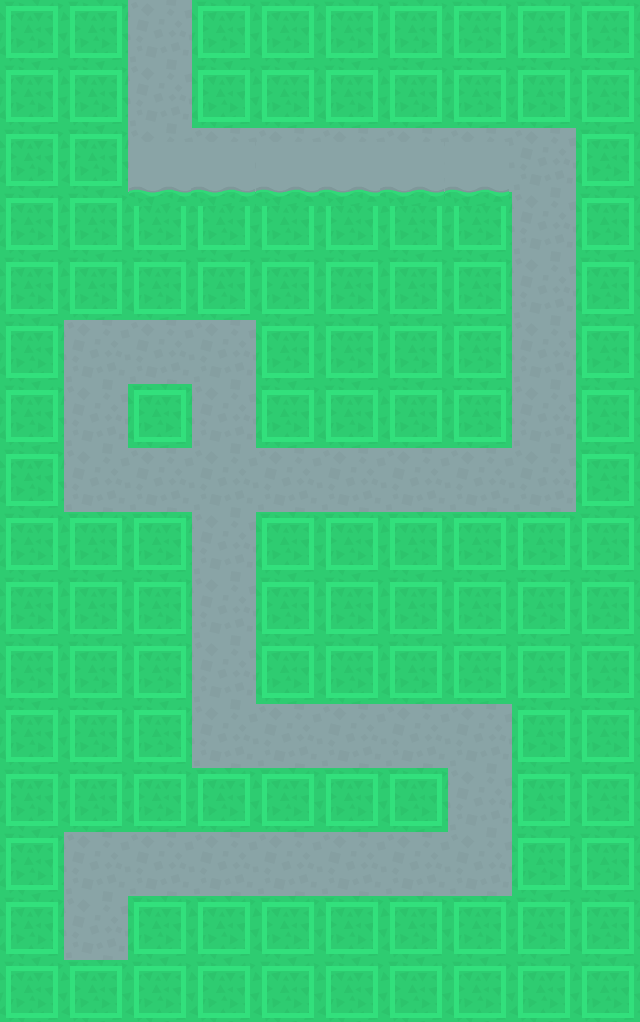
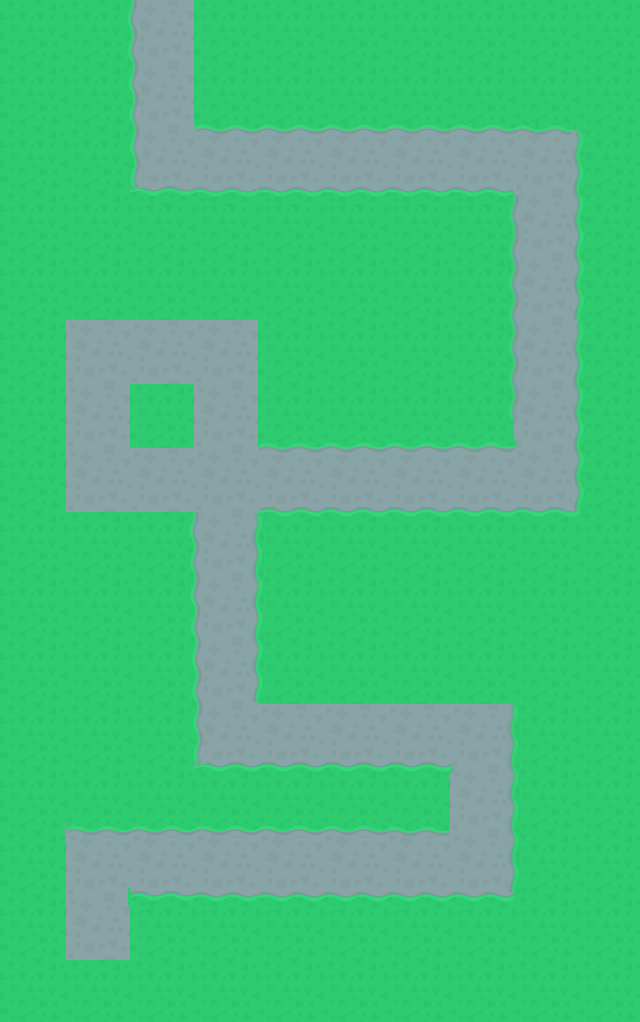
Feature/tower slot (#6)
* WIP interactivity to place towers

* WIP interaction buy and upgrade towers

diff --git a/src/Main.js b/src/Main.js
@@ -9,8 +9,6 @@ let Application = PIXI.Application,
 
 //Create a Pixi Application
 let app = new Application({
-    width: 256,
-    height: 256,
     antialiasing: true,
     transparent: false,
     resolution: 1
@@ -21,19 +19,16 @@ app.renderer.view.style.position = "absolute";
 app.renderer.view.style.display = "block";
 app.renderer.autoResize = true;
 app.renderer = PIXI.autoDetectRenderer(
-		window.innerWidth,
-		window.innerHeight,
-		{view:document.getElementById("game-canvas")}
+		{
+      view:document.getElementById("game-canvas")
+    }
 	);
 
 
 loader
-  .add(["images/background.png", "images/towerDefense_tile206.png", "images/towerDefense_tile180.png", "images/cat.png", "images/towerDefense_tile251.png", "images/towerDefense_tile024.png"])
+  .add(["images/background.png", "images/towerDefense_tile206.png", "images/towerDefense_tile180.png", "images/cat.png", "images/towerDefense_tile251.png", "images/towerDefense_tile024.png", "images/towerDefense_tile034.png"])
   .on("progress", loadProgressHandler)
   .load(setup);
-
-//Define any variables that are used in more than one function
-//let cat, state;
 
 function loadProgressHandler(loader, resource) {
   //Display the file `url` currently being loaded
@@ -46,19 +41,19 @@ function loadProgressHandler(loader, resource) {
 //Define any variables that are used in more than one function
 let wave, state;
 
-
 function setup() {
   console.log("All files loaded");
   
   //TODO add interaction plugin
-  app.stage.interactive = true;
-  app.stage.on("mousedown", function(e){
-    console.log("mousedown", e);
-  })
+  //app.stage.interactive = true;
+  //app.stage.on("mousedown", function(e){
+  //  console.log("mousedown", e);
+  //})
 
   //Create the `gameScene` group
   gameScene = new Container();
   app.stage.addChild(gameScene);
+  gameScene.visible = true
   
   waveScene = new Container();
   app.stage.addChild(waveScene);
@@ -67,9 +62,12 @@ function setup() {
   app.stage.addChild(gameOverScene);
   gameOverScene.visible = false;
 
+  //Draw map: design pourposes only
+  //drawMap()
+
   //Setup Map Background
   background = new Sprite(resources["images/background.png"].texture);
-  background.scale.x = .5 
+  background.scale.x = .5
   background.scale.y = .5
   gameScene.addChild(background);
   setupTiles()
@@ -89,47 +87,20 @@ function setup() {
  
   //Start the game loop
   app.ticker.add(delta => gameLoop(delta));
-  
 }
 
 function setupTiles()
 {
-  //let plateauTexture = PIXI.utils.TextureCache["images/towerDefense_tile055.png"];
-  //let backgrdTexture = PIXI.utils.TextureCache["images/towerDefense_tile024.png"];
-
-  //plateau = new Sprite(backgrdTexture);
-  //plateau.x = 0;
-  //plateau.y = 0;
-  //plateau.width  = TILE_SIZE;
-  //plateau.height = TILE_SIZE;
-    
-  var x,y = 0;
-  var loadtexture = "";
   for (var row = 0; row < map.length; row++) {
     for (var col = 0; col < map[row].length; col++) {
-      switch (map[row][col]){
-        default:
-          console.log("I'm here");
-          loadtexture = "images/towerDefense_tile029.png"; //does not work!
-          break;
-        case "0":
-          loadtexture = "images/towerDefense_tile024.png";
-          break;
+      if (map[row][col] === '0')
+      {
+        var tile = new Tile(col, row)
+        gameScene.addChild(tile);
       }
-        y = TILE_SIZE * row
-        x = TILE_SIZE  * col
-        let sprite =  new PIXI.Sprite(PIXI.utils.TextureCache[loadtexture]);
-        sprite.x = x
-        sprite.y = y
-        sprite.scale.x = .5 
-        sprite.scale.y = .5
-        gameScene.addChild(sprite);
-      
     }
   }
-  
 }
-
 
 function gameLoop(delta){
 
@@ -157,4 +128,40 @@ function nextWave() {
   
   //set the game state to `play`
   //state = wave;
+}
+
+
+class Tile extends PIXI.Container {
+
+  constructor(col, row) {
+    super()
+    this.x = TILE_SIZE * col
+    this.y = TILE_SIZE * row
+    
+    var rect = new PIXI.Graphics();
+    rect.beginFill(0xFFFFFF);
+    rect.drawRect(0, 0, TILE_SIZE, TILE_SIZE);
+    rect.endFill();
+    rect.alpha = 0;
+    rect.interactive = true;
+    rect.hitArea = new PIXI.Rectangle(0, 0, TILE_SIZE, TILE_SIZE);
+    rect.on('mousedown', onMousedown)
+    rect.on('mouseover', onMouseover)
+    rect.on('mouseout', onMouseout)
+    this.addChild(rect);
+  }
+}
+
+function onMousedown (event) {
+  //TODO Clavar tower seleccionada en el formulari de arriba
+  console.log('mousedown tile', this)
+}
+
+function onMouseover(mouseData) {
+  this.alpha = 0.3;
+}
+
+// make circle half-transparent when mouse leaves
+function onMouseout(mouseData) {
+  this.alpha = 0;
 }

diff --git a/src/tower/Tower.js b/src/tower/Tower.js
@@ -23,9 +23,10 @@ class BasicTower extends PIXI.Container {
     this.gun.scale.x = .65
     this.gun.scale.y = .65
 
-    this.rectangle.beginFill(0x33cc33);
+    this.rectangle.lineStyle(1, 0xFFFFFF, 3);
+    //this.rectangle.beginFill(0x33cc33);
     this.rectangle.drawRect(x, y, TILE_SIZE, TILE_SIZE);
-    this.rectangle.endFill();
+    //this.rectangle.endFill();
 
     this.addChild(this.rectangle)
     this.addChild(this.gun)
@@ -48,7 +49,7 @@ class BasicTower extends PIXI.Container {
     var dist = this.distance(this.gun.position, enemy.position);
     //console.log("Enemy at range ", dist);
     if (dist < RANGE) {
-      //console.log("Enemy in range ", dist);
+      //TODO the bulles should come out the middle
       this.shoot(this.gun.rotation, this.gun.position)
     }
 
@@ -135,10 +136,5 @@ class AnimatedTower extends BasicTower {
 
   }
 
-  shoot(rotation, startPosition) {
-    if (this.ammo > 0) {
-      console.log("Animaton");
-      super.shoot(rotation, startPosition)
-    }
-  }
+
 }

diff --git a/src/Map.js b/src/Map.js
@@ -22,3 +22,22 @@ const map =
 	['0', '0', '0', '0', '0', '0', '0', '0', '0', '0'],
 
 ];
+
+//This function draws the entire map
+//Used during design time to scaffold the scenarios
+function drawMap()
+{
+  var sprite;
+  for (var row = 0; row < map.length; row++) {
+    for (var col = 0; col < map[row].length; col++) {
+      if (map[row][col] === '0'){
+         sprite =  new PIXI.Sprite(PIXI.utils.TextureCache["images/towerDefense_tile024.png"]);
+      }else{
+         sprite =  new PIXI.Sprite(PIXI.utils.TextureCache["images/towerDefense_tile034.png"]);
+      }
+      sprite.x = TILE_SIZE * col
+      sprite.y = TILE_SIZE * row
+      gameScene.addChild(sprite);
+    }
+  }
+}

diff --git a/index.html b/index.html
@@ -4,7 +4,10 @@
 <style>
   * {padding: 0; margin: 0}
   body { background-color: #89a4a6 }
-	canvas { background-color: #89a4a6; }
+	canvas { 
+    background-color: #89a4a6;
+   
+     }
 	form {background-color: white;}
 </style>
 <body>
@@ -20,7 +23,7 @@
 </form>
 </div>
   <div align="center">
-		<canvas id="game-canvas" width="800" height="600"></canvas>
+		<canvas id="game-canvas"></canvas>
 	</div>
 <script src="node_modules/pixi.js/dist/pixi.js"></script>
 <script src="src/util/keyboard.js"></script>

diff --git a/src/wave/Wave.js b/src/wave/Wave.js
@@ -109,10 +109,8 @@ class Enemy extends PIXI.Container{
     childSprite.position.y = 5
 
     var rectangle = new PIXI.Graphics();
-    rectangle.beginFill(0x89a4a6);
+    rectangle.lineStyle(1, 0xFF5733, 3);
     rectangle.drawRect(0, 0, TILE_SIZE, TILE_SIZE);
-    rectangle.endFill();
-    
  
     this.addChild(rectangle)
     this.addChild(childSprite)
